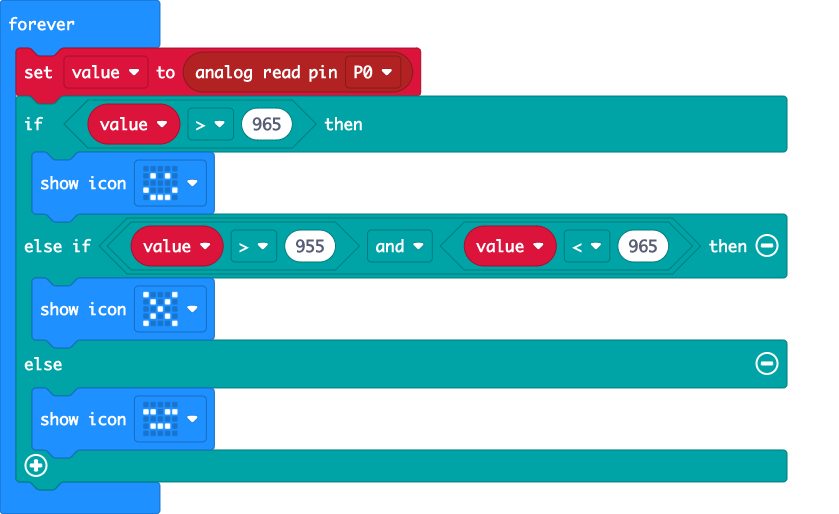
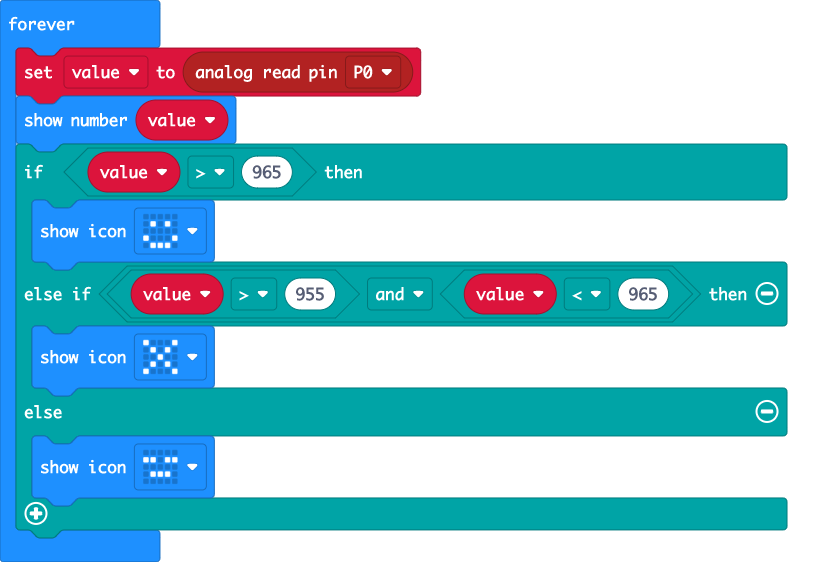
added show value

diff --git a/main.ts b/main.ts
@@ -1,6 +1,7 @@
 let value = 0
 basic.forever(function () {
     value = pins.analogReadPin(AnalogPin.P0)
+    basic.showNumber(value)
     if (value > 965) {
         basic.showIcon(IconNames.Happy)
     } else if (value > 955 && value < 965) {
